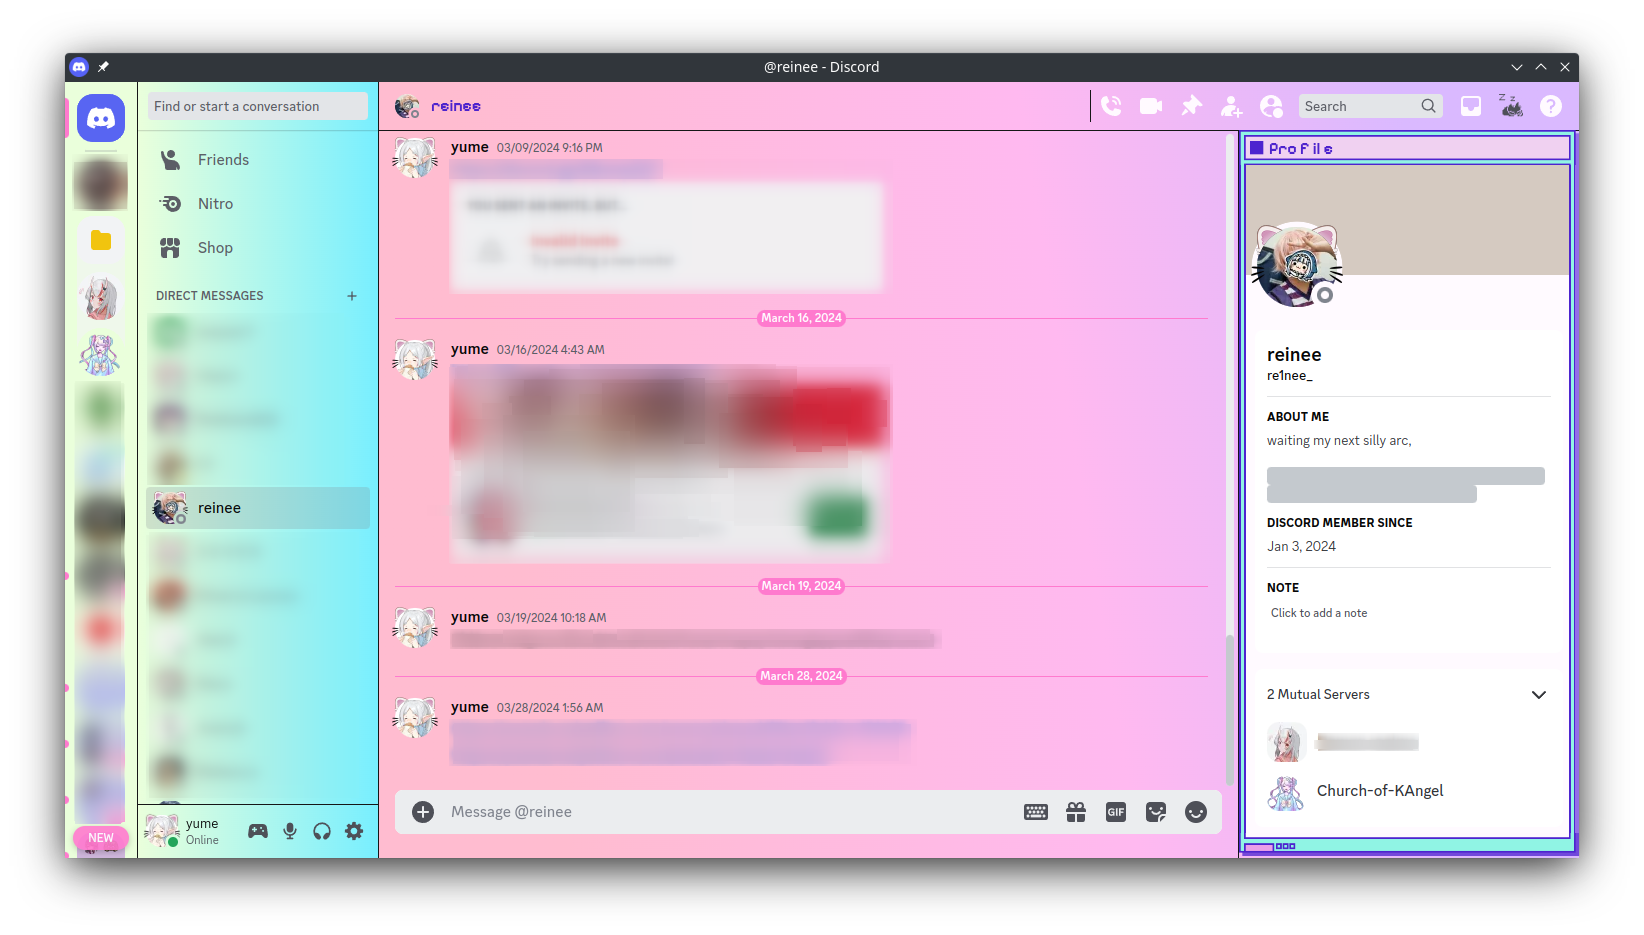
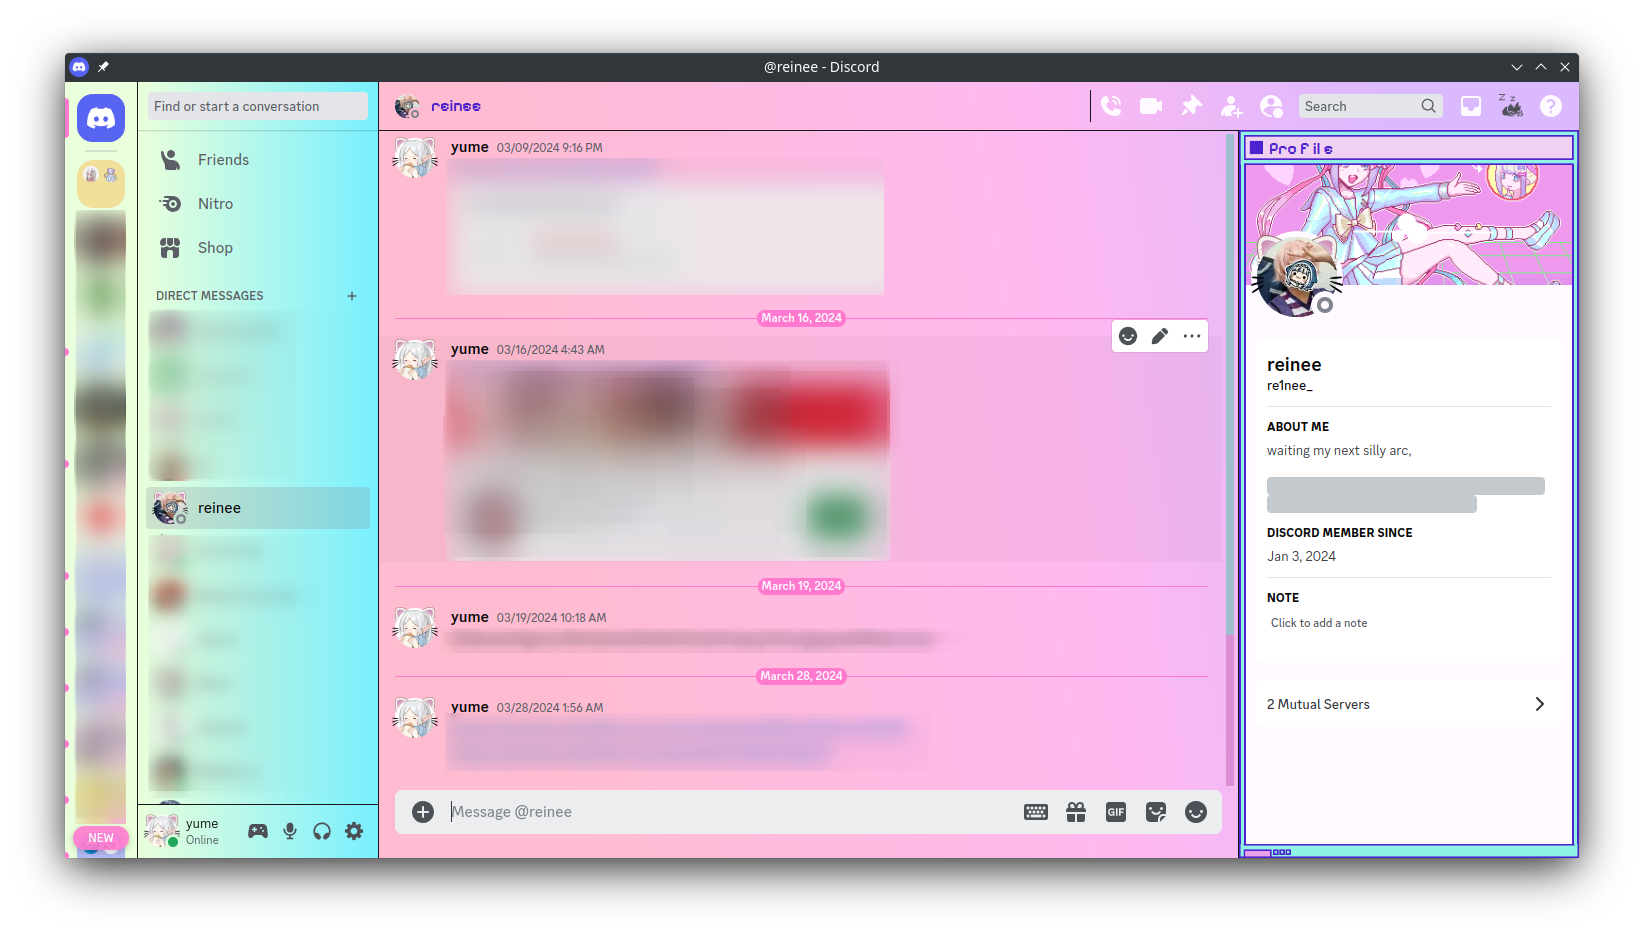
uodate preview

diff --git a/README.md b/README.md
@@ -18,12 +18,14 @@ A Discord theme inspired by the visual novel, [NEEDY STREAMER OVERLOAD](https://
 
 ## Preview (some parts are outdated)
 
-![Preview Server](./preview/dc-preview-main.png)
+| ![Preview Server](./preview/dc-preview-main.png)<br>server and user list |
+|:---:|
 
-| ![Preview DM](./preview/dc-preview-dm.png) add frame border to DM profile | ![Preview Animate non Nitro user](./preview/dc-profile-animate.png) override animation for non Nitro user (I think this is questionable to remove discord user customization) |
-|-------------------------------------------------|---------------------------------------------------------------------|
+| ![Preview DM](./preview/dc-preview-dm.png)<br>add frame border to DM profile | ![Preview Animate non Nitro user](./preview/dc-profile-animate.png)<br>override animation for non Nitro user (I think this is questionable to remove discord user customization) |
+|:---:|---|
 
-![Preview Stream chat](./preview/dc-preview-stream.png)
+| ![Preview Stream chat](./preview/dc-preview-stream.png)<br>stream chat |
+|:---:|
 
 ## Installation
 
